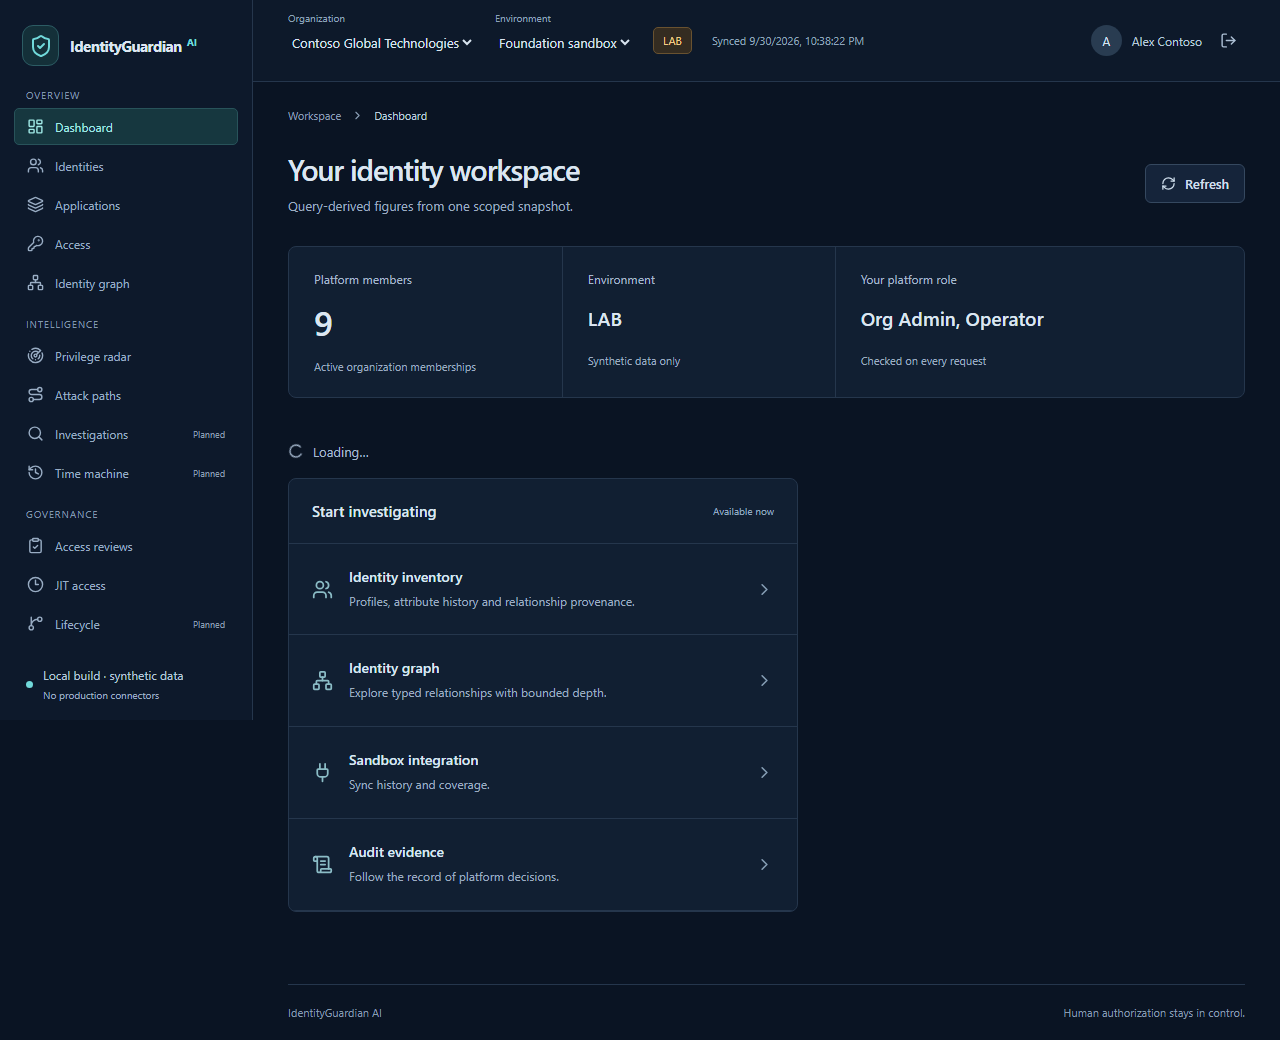
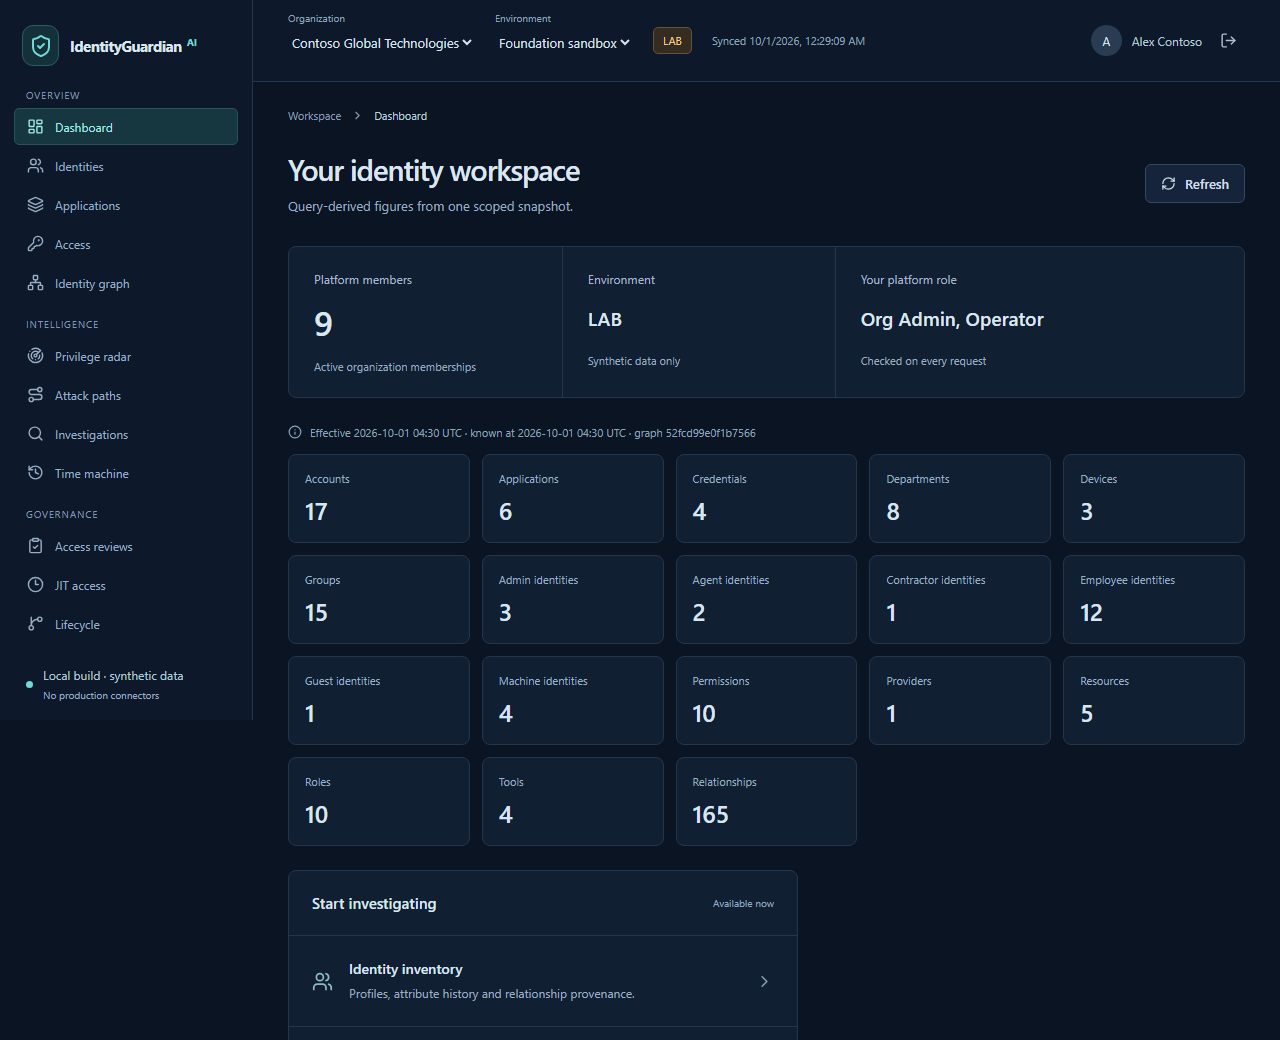
fix: pooled database connections and test stability
Replaces per-request connections with psycopg_pool. Tenant scope stays
transaction-local; RESET ALL runs on return and pools close on shutdown.
A single-connection pool test proves scope never carries over between
transactions, including after errors. Also makes the AI rate-limit test
window-safe and scopes browser locators.

The preceding Phase 14 commit was made while this suite was failing
intermittently under load; this commit restores a green run
(pytest 131 passed, Playwright 23 passed).

diff --git a/tests/e2e/investigate.spec.ts b/tests/e2e/investigate.spec.ts
@@ -6,12 +6,12 @@ test('investigator answers with cited evidence and refuses mutating requests', a
   await signIn(page, 'casey');
   await open(page, 'Investigations');
   await page.getByRole('checkbox', { name: /Ask the local model/ }).uncheck();
-  await page.getByRole('button', { name: 'Who can access payroll?' }).click();
-  await expect(page.getByText('FALLBACK').first()).toBeVisible({ timeout: 30000 });
+  await page.locator('form').getByRole('button', { name: 'Who can access payroll?' }).click();
+  await expect(page.getByText('FALLBACK', { exact: true })).toBeVisible({ timeout: 30000 });
   await expect(page.getByRole('heading', { name: 'Evidence bundle' })).toBeVisible();
   await expect(page.locator('ol.facts li').filter({ hasText: 'Tom Becker' })).toBeVisible();
   await page.getByRole('textbox', { name: 'Investigation question' }).fill('Delete access for Erick to payroll');
   await page.getByRole('button', { name: 'Investigate' }).click();
-  await expect(page.getByText('CLARIFICATION')).toBeVisible();
+  await expect(page.getByText('CLARIFICATION', { exact: true })).toBeVisible();
   await expect(page.getByText(/only answers read-only questions/)).toBeVisible();
 });

diff --git a/tests/integration/test_database.py b/tests/integration/test_database.py
@@ -16,7 +16,9 @@ def database():
     url = os.getenv("DATABASE_URL")
     if not url:
         pytest.skip("Run scripts/local_setup.py and scripts/manage.py migrate first")
-    return Database(url)
+    db = Database(url)
+    yield db
+    db.close()
 
 
 def test_runtime_cannot_read_other_organization_or_unscoped_rows(database):
@@ -49,3 +51,33 @@ def test_runtime_cannot_promote_itself_without_api_or_cross_scope(database):
     with pytest.raises(psycopg.errors.InsufficientPrivilege):
         with database.transaction() as conn:
             conn.execute("INSERT INTO organizations VALUES (%s,'forged')", (uuid4(),))
+
+
+def test_pooled_connection_never_carries_tenant_scope():
+    """One pooled connection serves consecutive transactions; scope must not leak between them."""
+    url = os.getenv("DATABASE_URL")
+    if not url:
+        pytest.skip("Run scripts/local_setup.py and scripts/manage.py migrate first")
+    org = uuid4()
+    with psycopg.connect(os.environ["MIGRATION_DATABASE_URL"]) as conn:
+        conn.execute("INSERT INTO organizations VALUES (%s,'Pool scope test')", (org,))
+    db = Database(url, max_size=1)
+    try:
+        with db.transaction(org) as conn:
+            backend = conn.execute("SELECT pg_backend_pid() AS pid").fetchone()["pid"]
+            assert conn.execute("SELECT count(*) AS n FROM organizations").fetchone()["n"] == 1
+        with db.transaction() as conn:
+            assert conn.execute("SELECT pg_backend_pid() AS pid").fetchone()["pid"] == backend
+            assert conn.execute("SELECT current_setting('app.org', true) AS v").fetchone()["v"] in (
+                None,
+                "",
+            )
+            assert conn.execute("SELECT count(*) AS n FROM organizations").fetchone()["n"] == 0
+        with pytest.raises(psycopg.errors.DivisionByZero):
+            with db.transaction(org) as conn:
+                conn.execute("SELECT 1/0")
+        with db.transaction() as conn:
+            assert conn.execute("SELECT pg_backend_pid() AS pid").fetchone()["pid"] == backend
+            assert conn.execute("SELECT count(*) AS n FROM organizations").fetchone()["n"] == 0
+    finally:
+        db.close()

diff --git a/apps/api/app/db.py b/apps/api/app/db.py
@@ -1,16 +1,53 @@
+import threading
 from contextlib import contextmanager
 
-import psycopg
 from psycopg.rows import dict_row
+from psycopg_pool import ConnectionPool
+
+
+def _reset(conn):
+    # Tenant context is transaction-local already; RESET ALL is a second guard so nothing set on a
+    # session can follow a pooled connection to the next request.
+    conn.execute("RESET ALL")
+    conn.commit()  # leave the connection idle so the pool keeps it
 
 
 class Database:
-    def __init__(self, url):
-        self.url = url
+    """Pooled connections. Each `transaction()` is one database transaction whose tenant scope
+    (`app.org`) is set with `set_config(..., true)` and therefore ends with the transaction."""
+
+    def __init__(self, url, max_size=8):
+        self.url, self.max_size = url, max_size
+        self._pool = None
+        self._lock = threading.Lock()
+
+    @property
+    def pool(self):
+        if self._pool is None:
+            with self._lock:
+                if self._pool is None:
+                    self._pool = ConnectionPool(
+                        self.url,
+                        min_size=0,
+                        max_size=self.max_size,
+                        max_idle=60,
+                        timeout=15,
+                        kwargs=dict(row_factory=dict_row, connect_timeout=10),
+                        reset=_reset,
+                        open=True,
+                        name="identityguardian",
+                    )
+        return self._pool
 
     @contextmanager
     def transaction(self, organization_id=None):
-        with psycopg.connect(self.url, row_factory=dict_row, connect_timeout=5) as conn:
+        # The pool commits on success and rolls back on error, like a direct connection context.
+        with self.pool.connection() as conn:
             if organization_id:
                 conn.execute("SELECT set_config('app.org', %s, true)", (str(organization_id),))
             yield conn
+
+    def close(self):
+        if self._pool is not None:
+            self._pool.close()
+            self._pool = None

diff --git a/tests/api/test_investigations.py b/tests/api/test_investigations.py
@@ -141,8 +141,13 @@ def test_authorization_scope_and_rate_limit(client, twin):
     )
     client.app.state.llm = None
     client.app.state.settings.ai_limit_per_minute = 2
-    codes = [ask(client, twin, "Who is Tom?", use_model=False).status_code for _ in range(3)]
-    assert codes == [200, 200, 429]
+    # Five calls guarantee one minute window holds three even if a boundary splits them.
+    codes = []
+    for _ in range(5):
+        codes.append(ask(client, twin, "Who is Tom?", use_model=False).status_code)
+        if codes[-1] == 429:
+            break
+    assert codes[-1] == 429 and set(codes[:-1]) == {200}
 
 
 def _ollama_ready():

diff --git a/tests/integration/test_worker.py b/tests/integration/test_worker.py
@@ -29,6 +29,7 @@ def test_worker_consumes_once_and_cannot_read_sessions():
     with pytest.raises(psycopg.errors.InsufficientPrivilege):
         with db.transaction(org) as conn:
             conn.execute("SELECT * FROM sessions")
+    db.close()
 
 
 def test_expired_lease_recovered_and_concurrent_delivery_is_idempotent():
@@ -52,3 +53,4 @@ def test_expired_lease_recovered_and_concurrent_delivery_is_idempotent():
             "SELECT attempts,processed_at FROM outbox WHERE id=%s", (event,)
         ).fetchone()
         assert row["attempts"] == 2 and row["processed_at"] is not None
+    db.close()

diff --git a/apps/api/app/main.py b/apps/api/app/main.py
@@ -1,6 +1,7 @@
 import json
 import logging
 import secrets
+from contextlib import asynccontextmanager
 from datetime import datetime, timedelta, timezone
 from pathlib import Path
 from uuid import UUID, uuid4
@@ -65,7 +66,13 @@ def mfa(session):
 
 
 def create_app(settings=None):
+    @asynccontextmanager
+    async def lifespan(app):
+        yield
+        app.state.db.close()
+
     app = FastAPI(
+        lifespan=lifespan,
         title="IdentityGuardian AI",
         version="0.1.0",
         docs_url=None,

diff --git a/tests/api/test_machines.py b/tests/api/test_machines.py
@@ -12,7 +12,9 @@ from tests.api.support import run_change, source_add, source_update, sync
 
 @pytest.fixture
 def worker():
-    return Database(os.environ["WORKER_DATABASE_URL"])
+    db = Database(os.environ["WORKER_DATABASE_URL"])
+    yield db
+    db.close()
 
 
 def rules(client, twin, who="reviewer"):

diff --git a/tests/api/test_lifecycle.py b/tests/api/test_lifecycle.py
@@ -12,7 +12,9 @@ from tests.api.support import source_add, sync
 
 @pytest.fixture
 def worker():
-    return Database(os.environ["WORKER_DATABASE_URL"])
+    db = Database(os.environ["WORKER_DATABASE_URL"])
+    yield db
+    db.close()
 
 
 def post(client, twin, who, path, body, status=None):

diff --git a/tests/api/test_execution.py b/tests/api/test_execution.py
@@ -17,7 +17,9 @@ MIGRATION = os.environ.get("MIGRATION_DATABASE_URL")
 
 @pytest.fixture
 def worker():
-    return Database(os.environ["WORKER_DATABASE_URL"])
+    db = Database(os.environ["WORKER_DATABASE_URL"])
+    yield db
+    db.close()
 
 
 def db(sql, *params):

diff --git a/docs/plans/phase-14-policy.md b/docs/plans/phase-14-policy.md
@@ -14,3 +14,7 @@ Approved by the user on 2026-09-30. Depends on Phases 7–8 and 13.
 
 - `tests/api/test_policies.py` (6): unknown operator/field/key, single test, naive date and unsupported action rejected; viewer 403; full lifecycle flags Grace's permanent Global Administrator without revoking it, wrong digest 409, proposer cannot approve; failing tests block simulation; active and expired exceptions; REJECT_PROPOSED blocks a permanent Directory-Admins proposal and activation marks an in-review change STALE at approval; reversion is a new reviewed version superseding the old one.
 - Playwright `policies.spec.ts`: admin drafts/tests/simulates, approver (MFA) approves the digest, admin activates.
+
+## Correction after the Phase 14 commit
+
+The Phase 14 commit was made while the parallel suite was intermittently failing (the gate in the commit command did not check pytest's exit status). Investigation showed `ConnectionTimeout` under concurrent load: every request opened a new PostgreSQL connection. Fix (separate commit): `psycopg_pool` with tenant scope still transaction-local, `RESET ALL` on return (committed so the pool keeps the connection), pools closed on application shutdown, a single-connection pool test proving scope never carries over (including after an error), the AI rate-limit test made window-boundary safe, and browser locators scoped. Suite: 131 passed with no warnings; Playwright 23 passed.
